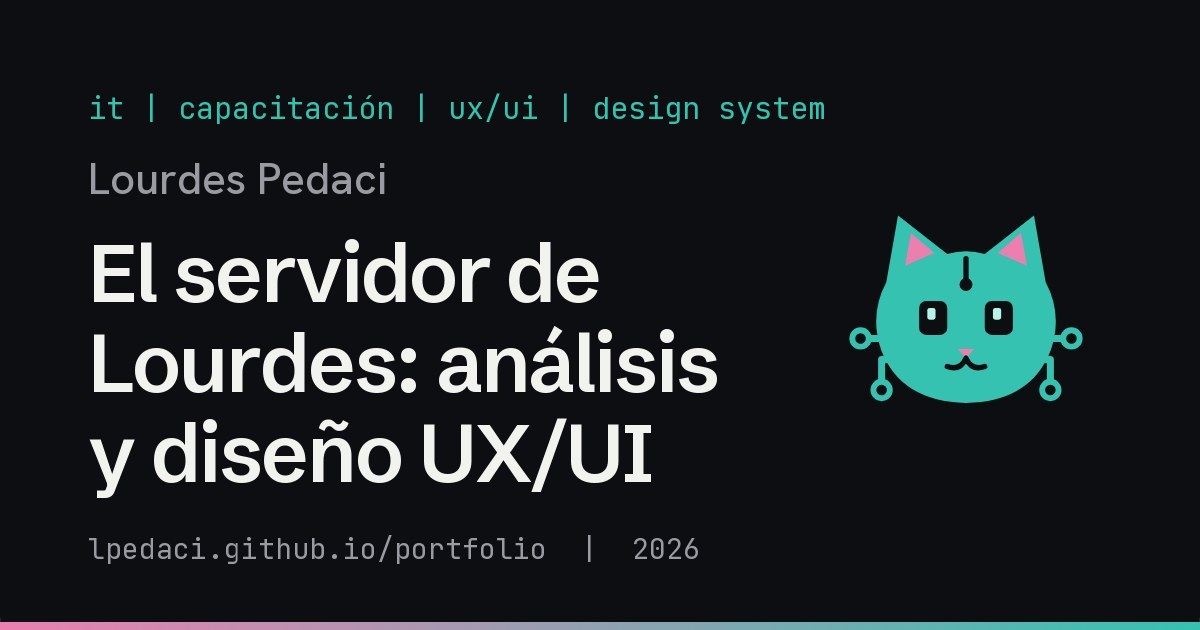
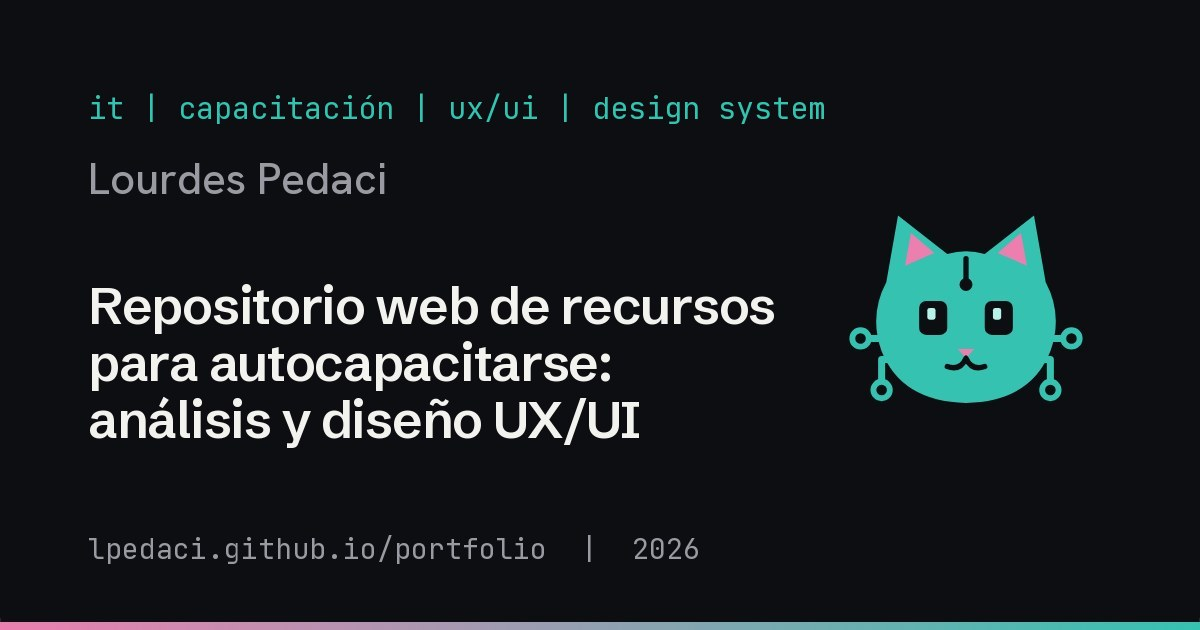
fix(casos): título del caso del servidor y nombre del sitio en la descripción

Changed region(s): [[0.0617, 0.3619, 0.6475, 0.7841]]

diff --git a/casos/servidor/index.html b/casos/servidor/index.html
@@ -3,8 +3,8 @@
 <head>
   <meta charset="utf-8">
   <meta name="viewport" content="width=device-width, initial-scale=1">
-  <title>El servidor de Lourdes: análisis y diseño UX/UI | Lourdes Pedaci</title>
-  <meta name="description" content="Un repositorio de cursos y recursos que vivía en Notion, rediseñado como un sitio con exploradores, búsqueda e inventario.">
+  <title>Repositorio web de recursos para autocapacitarse: análisis y diseño UX/UI | Lourdes Pedaci</title>
+  <meta name="description" content="El servidor de Lourdes: cursos y recursos que vivían en Notion, rediseñados como un sitio con exploradores, búsqueda e inventario.">
   <meta name="theme-color" content="#0D0E12">
   <link rel="canonical" href="https://lpedaci.github.io/portfolio/casos/servidor/">
   <link rel="alternate" hreflang="es" href="https://lpedaci.github.io/portfolio/casos/servidor/">
@@ -16,26 +16,26 @@
   <link rel="manifest" href="../../site.webmanifest">
   <meta property="og:type" content="article">
   <meta property="og:site_name" content="Lourdes Pedaci">
-  <meta property="og:title" content="El servidor de Lourdes: análisis y diseño UX/UI | Lourdes Pedaci">
-  <meta property="og:description" content="Un repositorio de cursos y recursos que vivía en Notion, rediseñado como un sitio con exploradores, búsqueda e inventario.">
+  <meta property="og:title" content="Repositorio web de recursos para autocapacitarse: análisis y diseño UX/UI | Lourdes Pedaci">
+  <meta property="og:description" content="El servidor de Lourdes: cursos y recursos que vivían en Notion, rediseñados como un sitio con exploradores, búsqueda e inventario.">
   <meta property="og:url" content="https://lpedaci.github.io/portfolio/casos/servidor/">
   <meta property="og:image" content="https://lpedaci.github.io/portfolio/assets/img/og/servidor.jpg">
   <meta property="og:image:width" content="1200">
   <meta property="og:image:height" content="630">
   <meta property="og:image:type" content="image/jpeg">
-  <meta property="og:image:alt" content="El servidor de Lourdes: análisis y diseño UX/UI: proyecto del portfolio de Lourdes Pedaci. Ícono de un gatito tecnológico.">
+  <meta property="og:image:alt" content="Repositorio web de recursos para autocapacitarse: análisis y diseño UX/UI: proyecto del portfolio de Lourdes Pedaci. Ícono de un gatito tecnológico.">
   <meta property="og:locale" content="es_AR">
   <meta property="og:locale:alternate" content="en_US">
   <meta name="twitter:card" content="summary_large_image">
-  <meta name="twitter:title" content="El servidor de Lourdes: análisis y diseño UX/UI | Lourdes Pedaci">
-  <meta name="twitter:description" content="Un repositorio de cursos y recursos que vivía en Notion, rediseñado como un sitio con exploradores, búsqueda e inventario.">
+  <meta name="twitter:title" content="Repositorio web de recursos para autocapacitarse: análisis y diseño UX/UI | Lourdes Pedaci">
+  <meta name="twitter:description" content="El servidor de Lourdes: cursos y recursos que vivían en Notion, rediseñados como un sitio con exploradores, búsqueda e inventario.">
   <meta name="twitter:image" content="https://lpedaci.github.io/portfolio/assets/img/og/servidor.jpg">
-  <meta name="twitter:image:alt" content="El servidor de Lourdes: análisis y diseño UX/UI: proyecto del portfolio de Lourdes Pedaci. Ícono de un gatito tecnológico.">
+  <meta name="twitter:image:alt" content="Repositorio web de recursos para autocapacitarse: análisis y diseño UX/UI: proyecto del portfolio de Lourdes Pedaci. Ícono de un gatito tecnológico.">
   <link rel="preload" href="../../assets/fonts/hanken-grotesk-latin.woff2" as="font" type="font/woff2" crossorigin>
   <link rel="preload" href="../../assets/fonts/schibsted-grotesk-latin.woff2" as="font" type="font/woff2" crossorigin>
-  <link rel="stylesheet" href="../../assets/css/fonts.css?v=202610152116">
-  <link rel="stylesheet" href="../../assets/css/icons.css?v=202610152116">
-  <link rel="stylesheet" href="../../assets/css/styles.css?v=202610152116">
+  <link rel="stylesheet" href="../../assets/css/fonts.css?v=202610152139">
+  <link rel="stylesheet" href="../../assets/css/icons.css?v=202610152139">
+  <link rel="stylesheet" href="../../assets/css/styles.css?v=202610152139">
 </head>
 <body data-slug="servidor">
   <a class="skip" href="#main" data-i18n="skip">Ir al contenido</a>
@@ -58,7 +58,7 @@
   </header>
   <main id="main" class="case">
     <div class="wrap" id="case">
-      <noscript><h1 class="case__title">El servidor de Lourdes: análisis y diseño UX/UI</h1><p class="case__sub">Un repositorio de cursos y recursos que vivía en Notion, rediseñado como un sitio con exploradores, búsqueda e inventario.</p></noscript>
+      <noscript><h1 class="case__title">Repositorio web de recursos para autocapacitarse: análisis y diseño UX/UI</h1><p class="case__sub">El servidor de Lourdes: cursos y recursos que vivían en Notion, rediseñados como un sitio con exploradores, búsqueda e inventario.</p></noscript>
     </div>
   </main>
   <footer class="foot">
@@ -70,10 +70,10 @@
       <a class="foot__top" href="#main"><span data-i18n="backTop">Volver arriba</span><i class="ph ph-arrow-up" aria-hidden="true"></i></a>
     </div>
   </footer>
-  <script src="../../assets/js/i18n.js?v=202610152116"></script>
-  <script src="../../assets/js/projects.js?v=202610152116"></script>
-  <script src="../../assets/js/cases.js?v=202610152116"></script>
-  <script src="../../assets/js/case.js?v=202610152116"></script>
-  <script src="../../assets/js/nav.js?v=202610152116"></script>
+  <script src="../../assets/js/i18n.js?v=202610152139"></script>
+  <script src="../../assets/js/projects.js?v=202610152139"></script>
+  <script src="../../assets/js/cases.js?v=202610152139"></script>
+  <script src="../../assets/js/case.js?v=202610152139"></script>
+  <script src="../../assets/js/nav.js?v=202610152139"></script>
 </body>
 </html>

diff --git a/assets/js/cases.js b/assets/js/cases.js
@@ -10295,12 +10295,12 @@ window.CASES = {
   "cat": "it",
   "touch": "cap",
   "title": {
-   "es": "El servidor de Lourdes: análisis y diseño UX/UI",
-   "en": "Lourdes's server: UX/UI analysis and design"
+   "es": "Repositorio web de recursos para autocapacitarse: análisis y diseño UX/UI",
+   "en": "Self-learning resource hub: UX/UI analysis and design"
   },
   "subtitle": {
-   "es": "Un repositorio de cursos, recursos y charlas para estudiantes de informática que vivía en Notion, rediseñado como un sitio propio que se explora, se filtra y se retoma.",
-   "en": "A collection of courses, resources and talks for computing students that lived in Notion, redesigned as a site of its own that can be explored, filtered and picked up again."
+   "es": "El servidor de Lourdes reúne cursos, recursos y charlas para estudiantes de informática. Vivía en Notion y lo rediseñé como un sitio propio que se explora, se filtra y se retoma.",
+   "en": "El servidor de Lourdes (Lourdes's server) gathers courses, resources and talks for computing students. It lived in Notion, and I redesigned it as a site of its own that can be explored, filtered and picked up again."
   },
   "chips": {
    "es": [
@@ -10434,8 +10434,8 @@ window.CASES = {
     },
     "p": [
      {
-      "es": "El material se publicaba en páginas de Notion desde 2019. Funcionaba como archivo, pero no como herramienta: no se podía filtrar por tema, certificado o idioma, ni guardar lo que interesaba para volver después.",
-      "en": "The material had been published on Notion pages since 2019. It worked as an archive, but not as a tool: it could not be filtered by topic, certificate or language, and there was no way to save what mattered to come back later."
+      "es": "El servidor de Lourdes se publicaba en páginas de Notion desde 2019. Funcionaba como archivo, pero no como herramienta: no se podía filtrar por tema, certificado o idioma, ni guardar lo que interesaba para volver después.",
+      "en": "El servidor de Lourdes had been published on Notion pages since 2019. It worked as an archive, but not as a tool: it could not be filtered by topic, certificate or language, and there was no way to save what mattered to come back later."
      }
     ]
    },

diff --git a/casos/rediseno-portfolio/index.html b/casos/rediseno-portfolio/index.html
@@ -33,9 +33,9 @@
   <meta name="twitter:image:alt" content="Auditoría y rediseño de mi portfolio versión 2.0: proyecto del portfolio de Lourdes Pedaci. Ícono de un gatito tecnológico.">
   <link rel="preload" href="../../assets/fonts/hanken-grotesk-latin.woff2" as="font" type="font/woff2" crossorigin>
   <link rel="preload" href="../../assets/fonts/schibsted-grotesk-latin.woff2" as="font" type="font/woff2" crossorigin>
-  <link rel="stylesheet" href="../../assets/css/fonts.css?v=202610152116">
-  <link rel="stylesheet" href="../../assets/css/icons.css?v=202610152116">
-  <link rel="stylesheet" href="../../assets/css/styles.css?v=202610152116">
+  <link rel="stylesheet" href="../../assets/css/fonts.css?v=202610152139">
+  <link rel="stylesheet" href="../../assets/css/icons.css?v=202610152139">
+  <link rel="stylesheet" href="../../assets/css/styles.css?v=202610152139">
 </head>
 <body data-slug="rediseno-portfolio">
   <a class="skip" href="#main" data-i18n="skip">Ir al contenido</a>
@@ -70,10 +70,10 @@
       <a class="foot__top" href="#main"><span data-i18n="backTop">Volver arriba</span><i class="ph ph-arrow-up" aria-hidden="true"></i></a>
     </div>
   </footer>
-  <script src="../../assets/js/i18n.js?v=202610152116"></script>
-  <script src="../../assets/js/projects.js?v=202610152116"></script>
-  <script src="../../assets/js/cases.js?v=202610152116"></script>
-  <script src="../../assets/js/case.js?v=202610152116"></script>
-  <script src="../../assets/js/nav.js?v=202610152116"></script>
+  <script src="../../assets/js/i18n.js?v=202610152139"></script>
+  <script src="../../assets/js/projects.js?v=202610152139"></script>
+  <script src="../../assets/js/cases.js?v=202610152139"></script>
+  <script src="../../assets/js/case.js?v=202610152139"></script>
+  <script src="../../assets/js/nav.js?v=202610152139"></script>
 </body>
 </html>

diff --git a/casos/sistemas-operativos/index.html b/casos/sistemas-operativos/index.html
@@ -33,9 +33,9 @@
   <meta name="twitter:image:alt" content="Sistemas Operativos: almacenamiento y seteo: proyecto del portfolio de Lourdes Pedaci. Ícono de un gatito tecnológico.">
   <link rel="preload" href="../../assets/fonts/hanken-grotesk-latin.woff2" as="font" type="font/woff2" crossorigin>
   <link rel="preload" href="../../assets/fonts/schibsted-grotesk-latin.woff2" as="font" type="font/woff2" crossorigin>
-  <link rel="stylesheet" href="../../assets/css/fonts.css?v=202610152116">
-  <link rel="stylesheet" href="../../assets/css/icons.css?v=202610152116">
-  <link rel="stylesheet" href="../../assets/css/styles.css?v=202610152116">
+  <link rel="stylesheet" href="../../assets/css/fonts.css?v=202610152139">
+  <link rel="stylesheet" href="../../assets/css/icons.css?v=202610152139">
+  <link rel="stylesheet" href="../../assets/css/styles.css?v=202610152139">
 </head>
 <body data-slug="sistemas-operativos">
   <a class="skip" href="#main" data-i18n="skip">Ir al contenido</a>
@@ -70,10 +70,10 @@
       <a class="foot__top" href="#main"><span data-i18n="backTop">Volver arriba</span><i class="ph ph-arrow-up" aria-hidden="true"></i></a>
     </div>
   </footer>
-  <script src="../../assets/js/i18n.js?v=202610152116"></script>
-  <script src="../../assets/js/projects.js?v=202610152116"></script>
-  <script src="../../assets/js/cases.js?v=202610152116"></script>
-  <script src="../../assets/js/case.js?v=202610152116"></script>
-  <script src="../../assets/js/nav.js?v=202610152116"></script>
+  <script src="../../assets/js/i18n.js?v=202610152139"></script>
+  <script src="../../assets/js/projects.js?v=202610152139"></script>
+  <script src="../../assets/js/cases.js?v=202610152139"></script>
+  <script src="../../assets/js/case.js?v=202610152139"></script>
+  <script src="../../assets/js/nav.js?v=202610152139"></script>
 </body>
 </html>

diff --git a/casos/riesgos-digitales/index.html b/casos/riesgos-digitales/index.html
@@ -33,9 +33,9 @@
   <meta name="twitter:image:alt" content="Programa participativo de riesgos digitales: proyecto del portfolio de Lourdes Pedaci. Ícono de un gatito tecnológico.">
   <link rel="preload" href="../../assets/fonts/hanken-grotesk-latin.woff2" as="font" type="font/woff2" crossorigin>
   <link rel="preload" href="../../assets/fonts/schibsted-grotesk-latin.woff2" as="font" type="font/woff2" crossorigin>
-  <link rel="stylesheet" href="../../assets/css/fonts.css?v=202610152116">
-  <link rel="stylesheet" href="../../assets/css/icons.css?v=202610152116">
-  <link rel="stylesheet" href="../../assets/css/styles.css?v=202610152116">
+  <link rel="stylesheet" href="../../assets/css/fonts.css?v=202610152139">
+  <link rel="stylesheet" href="../../assets/css/icons.css?v=202610152139">
+  <link rel="stylesheet" href="../../assets/css/styles.css?v=202610152139">
 </head>
 <body data-slug="riesgos-digitales">
   <a class="skip" href="#main" data-i18n="skip">Ir al contenido</a>
@@ -70,10 +70,10 @@
       <a class="foot__top" href="#main"><span data-i18n="backTop">Volver arriba</span><i class="ph ph-arrow-up" aria-hidden="true"></i></a>
     </div>
   </footer>
-  <script src="../../assets/js/i18n.js?v=202610152116"></script>
-  <script src="../../assets/js/projects.js?v=202610152116"></script>
-  <script src="../../assets/js/cases.js?v=202610152116"></script>
-  <script src="../../assets/js/case.js?v=202610152116"></script>
-  <script src="../../assets/js/nav.js?v=202610152116"></script>
+  <script src="../../assets/js/i18n.js?v=202610152139"></script>
+  <script src="../../assets/js/projects.js?v=202610152139"></script>
+  <script src="../../assets/js/cases.js?v=202610152139"></script>
+  <script src="../../assets/js/case.js?v=202610152139"></script>
+  <script src="../../assets/js/nav.js?v=202610152139"></script>
 </body>
 </html>

diff --git a/casos/infraestructura-it/index.html b/casos/infraestructura-it/index.html
@@ -33,9 +33,9 @@
   <meta name="twitter:image:alt" content="Estandarización de infraestructura IT: proyecto del portfolio de Lourdes Pedaci. Ícono de un gatito tecnológico.">
   <link rel="preload" href="../../assets/fonts/hanken-grotesk-latin.woff2" as="font" type="font/woff2" crossorigin>
   <link rel="preload" href="../../assets/fonts/schibsted-grotesk-latin.woff2" as="font" type="font/woff2" crossorigin>
-  <link rel="stylesheet" href="../../assets/css/fonts.css?v=202610152116">
-  <link rel="stylesheet" href="../../assets/css/icons.css?v=202610152116">
-  <link rel="stylesheet" href="../../assets/css/styles.css?v=202610152116">
+  <link rel="stylesheet" href="../../assets/css/fonts.css?v=202610152139">
+  <link rel="stylesheet" href="../../assets/css/icons.css?v=202610152139">
+  <link rel="stylesheet" href="../../assets/css/styles.css?v=202610152139">
 </head>
 <body data-slug="infraestructura-it">
   <a class="skip" href="#main" data-i18n="skip">Ir al contenido</a>
@@ -70,10 +70,10 @@
       <a class="foot__top" href="#main"><span data-i18n="backTop">Volver arriba</span><i class="ph ph-arrow-up" aria-hidden="true"></i></a>
     </div>
   </footer>
-  <script src="../../assets/js/i18n.js?v=202610152116"></script>
-  <script src="../../assets/js/projects.js?v=202610152116"></script>
-  <script src="../../assets/js/cases.js?v=202610152116"></script>
-  <script src="../../assets/js/case.js?v=202610152116"></script>
-  <script src="../../assets/js/nav.js?v=202610152116"></script>
+  <script src="../../assets/js/i18n.js?v=202610152139"></script>
+  <script src="../../assets/js/projects.js?v=202610152139"></script>
+  <script src="../../assets/js/cases.js?v=202610152139"></script>
+  <script src="../../assets/js/case.js?v=202610152139"></script>
+  <script src="../../assets/js/nav.js?v=202610152139"></script>
 </body>
 </html>

diff --git a/casos/auditoria-turnos/index.html b/casos/auditoria-turnos/index.html
@@ -33,9 +33,9 @@
   <meta name="twitter:image:alt" content="Auditoría UX/UI de un portal de turnos: proyecto del portfolio de Lourdes Pedaci. Ícono de un gatito tecnológico.">
   <link rel="preload" href="../../assets/fonts/hanken-grotesk-latin.woff2" as="font" type="font/woff2" crossorigin>
   <link rel="preload" href="../../assets/fonts/schibsted-grotesk-latin.woff2" as="font" type="font/woff2" crossorigin>
-  <link rel="stylesheet" href="../../assets/css/fonts.css?v=202610152116">
-  <link rel="stylesheet" href="../../assets/css/icons.css?v=202610152116">
-  <link rel="stylesheet" href="../../assets/css/styles.css?v=202610152116">
+  <link rel="stylesheet" href="../../assets/css/fonts.css?v=202610152139">
+  <link rel="stylesheet" href="../../assets/css/icons.css?v=202610152139">
+  <link rel="stylesheet" href="../../assets/css/styles.css?v=202610152139">
 </head>
 <body data-slug="auditoria-turnos">
   <a class="skip" href="#main" data-i18n="skip">Ir al contenido</a>
@@ -70,10 +70,10 @@
       <a class="foot__top" href="#main"><span data-i18n="backTop">Volver arriba</span><i class="ph ph-arrow-up" aria-hidden="true"></i></a>
     </div>
   </footer>
-  <script src="../../assets/js/i18n.js?v=202610152116"></script>
-  <script src="../../assets/js/projects.js?v=202610152116"></script>
-  <script src="../../assets/js/cases.js?v=202610152116"></script>
-  <script src="../../assets/js/case.js?v=202610152116"></script>
-  <script src="../../assets/js/nav.js?v=202610152116"></script>
+  <script src="../../assets/js/i18n.js?v=202610152139"></script>
+  <script src="../../assets/js/projects.js?v=202610152139"></script>
+  <script src="../../assets/js/cases.js?v=202610152139"></script>
+  <script src="../../assets/js/case.js?v=202610152139"></script>
+  <script src="../../assets/js/nav.js?v=202610152139"></script>
 </body>
 </html>

diff --git a/casos/docente-era-digital/index.html b/casos/docente-era-digital/index.html
@@ -33,9 +33,9 @@
   <meta name="twitter:image:alt" content="El rol docente en la era digital: proyecto del portfolio de Lourdes Pedaci. Ícono de un gatito tecnológico.">
   <link rel="preload" href="../../assets/fonts/hanken-grotesk-latin.woff2" as="font" type="font/woff2" crossorigin>
   <link rel="preload" href="../../assets/fonts/schibsted-grotesk-latin.woff2" as="font" type="font/woff2" crossorigin>
-  <link rel="stylesheet" href="../../assets/css/fonts.css?v=202610152116">
-  <link rel="stylesheet" href="../../assets/css/icons.css?v=202610152116">
-  <link rel="stylesheet" href="../../assets/css/styles.css?v=202610152116">
+  <link rel="stylesheet" href="../../assets/css/fonts.css?v=202610152139">
+  <link rel="stylesheet" href="../../assets/css/icons.css?v=202610152139">
+  <link rel="stylesheet" href="../../assets/css/styles.css?v=202610152139">
 </head>
 <body data-slug="docente-era-digital">
   <a class="skip" href="#main" data-i18n="skip">Ir al contenido</a>
@@ -70,10 +70,10 @@
       <a class="foot__top" href="#main"><span data-i18n="backTop">Volver arriba</span><i class="ph ph-arrow-up" aria-hidden="true"></i></a>
     </div>
   </footer>
-  <script src="../../assets/js/i18n.js?v=202610152116"></script>
-  <script src="../../assets/js/projects.js?v=202610152116"></script>
-  <script src="../../assets/js/cases.js?v=202610152116"></script>
-  <script src="../../assets/js/case.js?v=202610152116"></script>
-  <script src="../../assets/js/nav.js?v=202610152116"></script>
+  <script src="../../assets/js/i18n.js?v=202610152139"></script>
+  <script src="../../assets/js/projects.js?v=202610152139"></script>
+  <script src="../../assets/js/cases.js?v=202610152139"></script>
+  <script src="../../assets/js/case.js?v=202610152139"></script>
+  <script src="../../assets/js/nav.js?v=202610152139"></script>
 </body>
 </html>

diff --git a/casos/erp-motion-graphics/index.html b/casos/erp-motion-graphics/index.html
@@ -33,9 +33,9 @@
   <meta name="twitter:image:alt" content="Sistemas ERP en motion graphics: proyecto del portfolio de Lourdes Pedaci. Ícono de un gatito tecnológico.">
   <link rel="preload" href="../../assets/fonts/hanken-grotesk-latin.woff2" as="font" type="font/woff2" crossorigin>
   <link rel="preload" href="../../assets/fonts/schibsted-grotesk-latin.woff2" as="font" type="font/woff2" crossorigin>
-  <link rel="stylesheet" href="../../assets/css/fonts.css?v=202610152116">
-  <link rel="stylesheet" href="../../assets/css/icons.css?v=202610152116">
-  <link rel="stylesheet" href="../../assets/css/styles.css?v=202610152116">
+  <link rel="stylesheet" href="../../assets/css/fonts.css?v=202610152139">
+  <link rel="stylesheet" href="../../assets/css/icons.css?v=202610152139">
+  <link rel="stylesheet" href="../../assets/css/styles.css?v=202610152139">
 </head>
 <body data-slug="erp-motion-graphics">
   <a class="skip" href="#main" data-i18n="skip">Ir al contenido</a>
@@ -70,10 +70,10 @@
       <a class="foot__top" href="#main"><span data-i18n="backTop">Volver arriba</span><i class="ph ph-arrow-up" aria-hidden="true"></i></a>
     </div>
   </footer>
-  <script src="../../assets/js/i18n.js?v=202610152116"></script>
-  <script src="../../assets/js/projects.js?v=202610152116"></script>
-  <script src="../../assets/js/cases.js?v=202610152116"></script>
-  <script src="../../assets/js/case.js?v=202610152116"></script>
-  <script src="../../assets/js/nav.js?v=202610152116"></script>
+  <script src="../../assets/js/i18n.js?v=202610152139"></script>
+  <script src="../../assets/js/projects.js?v=202610152139"></script>
+  <script src="../../assets/js/cases.js?v=202610152139"></script>
+  <script src="../../assets/js/case.js?v=202610152139"></script>
+  <script src="../../assets/js/nav.js?v=202610152139"></script>
 </body>
 </html>

diff --git a/casos/proyectos-aplicados/index.html b/casos/proyectos-aplicados/index.html
@@ -33,9 +33,9 @@
   <meta name="twitter:image:alt" content="Programa de proyectos aplicados: proyecto del portfolio de Lourdes Pedaci. Ícono de un gatito tecnológico.">
   <link rel="preload" href="../../assets/fonts/hanken-grotesk-latin.woff2" as="font" type="font/woff2" crossorigin>
   <link rel="preload" href="../../assets/fonts/schibsted-grotesk-latin.woff2" as="font" type="font/woff2" crossorigin>
-  <link rel="stylesheet" href="../../assets/css/fonts.css?v=202610152116">
-  <link rel="stylesheet" href="../../assets/css/icons.css?v=202610152116">
-  <link rel="stylesheet" href="../../assets/css/styles.css?v=202610152116">
+  <link rel="stylesheet" href="../../assets/css/fonts.css?v=202610152139">
+  <link rel="stylesheet" href="../../assets/css/icons.css?v=202610152139">
+  <link rel="stylesheet" href="../../assets/css/styles.css?v=202610152139">
 </head>
 <body data-slug="proyectos-aplicados">
   <a class="skip" href="#main" data-i18n="skip">Ir al contenido</a>
@@ -70,10 +70,10 @@
       <a class="foot__top" href="#main"><span data-i18n="backTop">Volver arriba</span><i class="ph ph-arrow-up" aria-hidden="true"></i></a>
     </div>
   </footer>
-  <script src="../../assets/js/i18n.js?v=202610152116"></script>
-  <script src="../../assets/js/projects.js?v=202610152116"></script>
-  <script src="../../assets/js/cases.js?v=202610152116"></script>
-  <script src="../../assets/js/case.js?v=202610152116"></script>
-  <script src="../../assets/js/nav.js?v=202610152116"></script>
+  <script src="../../assets/js/i18n.js?v=202610152139"></script>
+  <script src="../../assets/js/projects.js?v=202610152139"></script>
+  <script src="../../assets/js/cases.js?v=202610152139"></script>
+  <script src="../../assets/js/case.js?v=202610152139"></script>
+  <script src="../../assets/js/nav.js?v=202610152139"></script>
 </body>
 </html>

diff --git a/casos/expo-smart-cities/index.html b/casos/expo-smart-cities/index.html
@@ -33,9 +33,9 @@
   <meta name="twitter:image:alt" content="Apertura, Expo Smart Cities 2024: proyecto del portfolio de Lourdes Pedaci. Ícono de un gatito tecnológico.">
   <link rel="preload" href="../../assets/fonts/hanken-grotesk-latin.woff2" as="font" type="font/woff2" crossorigin>
   <link rel="preload" href="../../assets/fonts/schibsted-grotesk-latin.woff2" as="font" type="font/woff2" crossorigin>
-  <link rel="stylesheet" href="../../assets/css/fonts.css?v=202610152116">
-  <link rel="stylesheet" href="../../assets/css/icons.css?v=202610152116">
-  <link rel="stylesheet" href="../../assets/css/styles.css?v=202610152116">
+  <link rel="stylesheet" href="../../assets/css/fonts.css?v=202610152139">
+  <link rel="stylesheet" href="../../assets/css/icons.css?v=202610152139">
+  <link rel="stylesheet" href="../../assets/css/styles.css?v=202610152139">
 </head>
 <body data-slug="expo-smart-cities">
   <a class="skip" href="#main" data-i18n="skip">Ir al contenido</a>
@@ -70,10 +70,10 @@
       <a class="foot__top" href="#main"><span data-i18n="backTop">Volver arriba</span><i class="ph ph-arrow-up" aria-hidden="true"></i></a>
     </div>
   </footer>
-  <script src="../../assets/js/i18n.js?v=202610152116"></script>
-  <script src="../../assets/js/projects.js?v=202610152116"></script>
-  <script src="../../assets/js/cases.js?v=202610152116"></script>
-  <script src="../../assets/js/case.js?v=202610152116"></script>
-  <script src="../../assets/js/nav.js?v=202610152116"></script>
+  <script src="../../assets/js/i18n.js?v=202610152139"></script>
+  <script src="../../assets/js/projects.js?v=202610152139"></script>
+  <script src="../../assets/js/cases.js?v=202610152139"></script>
+  <script src="../../assets/js/case.js?v=202610152139"></script>
+  <script src="../../assets/js/nav.js?v=202610152139"></script>
 </body>
 </html>

diff --git a/casos/the-crow/index.html b/casos/the-crow/index.html
@@ -33,9 +33,9 @@
   <meta name="twitter:image:alt" content="The Crow, según Edgar Allan Poe: proyecto del portfolio de Lourdes Pedaci. Ícono de un gatito tecnológico.">
   <link rel="preload" href="../../assets/fonts/hanken-grotesk-latin.woff2" as="font" type="font/woff2" crossorigin>
   <link rel="preload" href="../../assets/fonts/schibsted-grotesk-latin.woff2" as="font" type="font/woff2" crossorigin>
-  <link rel="stylesheet" href="../../assets/css/fonts.css?v=202610152116">
-  <link rel="stylesheet" href="../../assets/css/icons.css?v=202610152116">
-  <link rel="stylesheet" href="../../assets/css/styles.css?v=202610152116">
+  <link rel="stylesheet" href="../../assets/css/fonts.css?v=202610152139">
+  <link rel="stylesheet" href="../../assets/css/icons.css?v=202610152139">
+  <link rel="stylesheet" href="../../assets/css/styles.css?v=202610152139">
 </head>
 <body data-slug="the-crow">
   <a class="skip" href="#main" data-i18n="skip">Ir al contenido</a>
@@ -70,10 +70,10 @@
       <a class="foot__top" href="#main"><span data-i18n="backTop">Volver arriba</span><i class="ph ph-arrow-up" aria-hidden="true"></i></a>
     </div>
   </footer>
-  <script src="../../assets/js/i18n.js?v=202610152116"></script>
-  <script src="../../assets/js/projects.js?v=202610152116"></script>
-  <script src="../../assets/js/cases.js?v=202610152116"></script>
-  <script src="../../assets/js/case.js?v=202610152116"></script>
-  <script src="../../assets/js/nav.js?v=202610152116"></script>
+  <script src="../../assets/js/i18n.js?v=202610152139"></script>
+  <script src="../../assets/js/projects.js?v=202610152139"></script>
+  <script src="../../assets/js/cases.js?v=202610152139"></script>
+  <script src="../../assets/js/case.js?v=202610152139"></script>
+  <script src="../../assets/js/nav.js?v=202610152139"></script>
 </body>
 </html>
